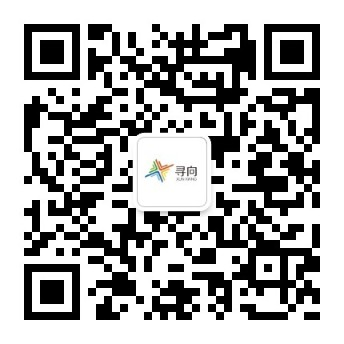
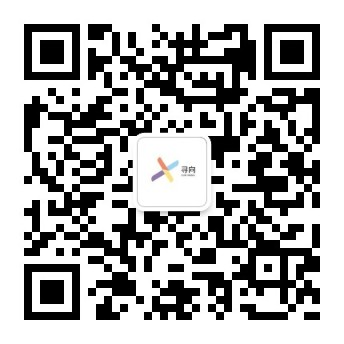
Small changes

Changed region(s): [[0.407, 0.4651, 0.5814, 0.5523]]

diff --git a/lianxisheng.html b/lianxisheng.html
@@ -130,8 +130,27 @@
       </div>
       <a type="button" class="btn button-text"
         style="background-color: white; color: black; position: relative; bottom: 5rem; border-radius: 30px;">成为练习生</a>
-      <a type="button" class="btn button-text"
+      <a data-toggle="modal" data-target="#sunday" type="button" class="btn button-text"
         style="background-color: white; color: black; position: relative; bottom: 5rem; border-radius: 30px;">成为领队</a>
+      <div class="modal fade" id="sunday" tabindex="-1" role="dialog" aria-labelledby="exampleModalCenterTitle"
+        aria-hidden="true">
+        <div class="modal-dialog modal-dialog-centered" role="document">
+          <div class="modal-content">
+            <div class="modal-header">
+              <h5 class="modal-title" id="exampleModalLongTitle">成为练习生领队请联系 <i class="fab fa-weixin mr-2"></i>
+              </h5>
+              <button type="button" class="close" data-dismiss="modal" aria-label="Close">
+                <span aria-hidden="true">&times;</span>
+              </button>
+            </div>
+            <div class="modal-body text-center">
+              <img src="img/notes/sundayqrcode.jpg" style="height: 500px; width: 370px;" alt="Sunday QR code">
+            </div>
+            <div class="modal-footer">
+            </div>
+          </div>
+        </div>
+      </div>
     </div>
   </section>
 
@@ -401,16 +420,18 @@
           <div class="col-md-5">
             <div class="container" style="width: 80%; background-color: #FFF1F1; border-radius: 25px;">
               <h5 class="text-center" style="padding-top: 3rem;">行业热点讨论分享</h5>
-              <p style="padding: 0 20px 20px 20px;">在这里，你会加入那些100%地以帮助你成长和寻向为目的的活动。 每个月，你都有机会和寻向领队进行一对一的交流答疑，或者是用office hour的时间来修改简历或者练习面试。
-                你同样会参与到不同主题的讲座来帮助你了解求职相关的每一个环节，或者是在Social活动中结识更多的前辈与同龄人。</p>
+              <p style="padding: 0 20px 35px 20px;">Deloitte发布的2021Tech Trend?
+                互联网教育发展现状？马斯克的人脑芯片？练习生项目鼓励所有个体分享自己感兴趣领域的发展趋势。在这里，你独体的热爱总有人愿意与你分享，你对其他行业的好奇心可以被满足。</p>
             </div>
           </div>
           <div class="col-md-1"></div>
           <div class="col-md-5">
-            <div class="container" style="width: 80%; background-color: #FFF1F1; background-size: contain; border-radius: 25px;">
+            <div class="container"
+              style="width: 80%; background-color: #FFF1F1; background-size: contain; border-radius: 25px;">
               <h5 class="text-center" style="padding-top: 3rem;">内推信息及资源分享</h5>
-              <p style="padding: 0 20px 20px 20px;">练习生群内着各种高质量（也时而接地气，时而温馨）的个人提升和行业咨询的信息与分享。过往分享内容包括优质信息分享类公众号清单，了解实时政治的不同渠道，美国生活指南等等。</p>
-              <br><br>
+              <p style="padding: 0 20px 20px 20px;">
+                练习生群内着各种高质量（也时而接地气，时而温馨）的个人提升和行业咨询的信息与分享。过往分享内容包括优质信息分享类公众号清单，了解实时政治的不同渠道，美国生活指南等等。</p>
+              <br>
             </div>
           </div>
           <div class="col-md-1"></div>
